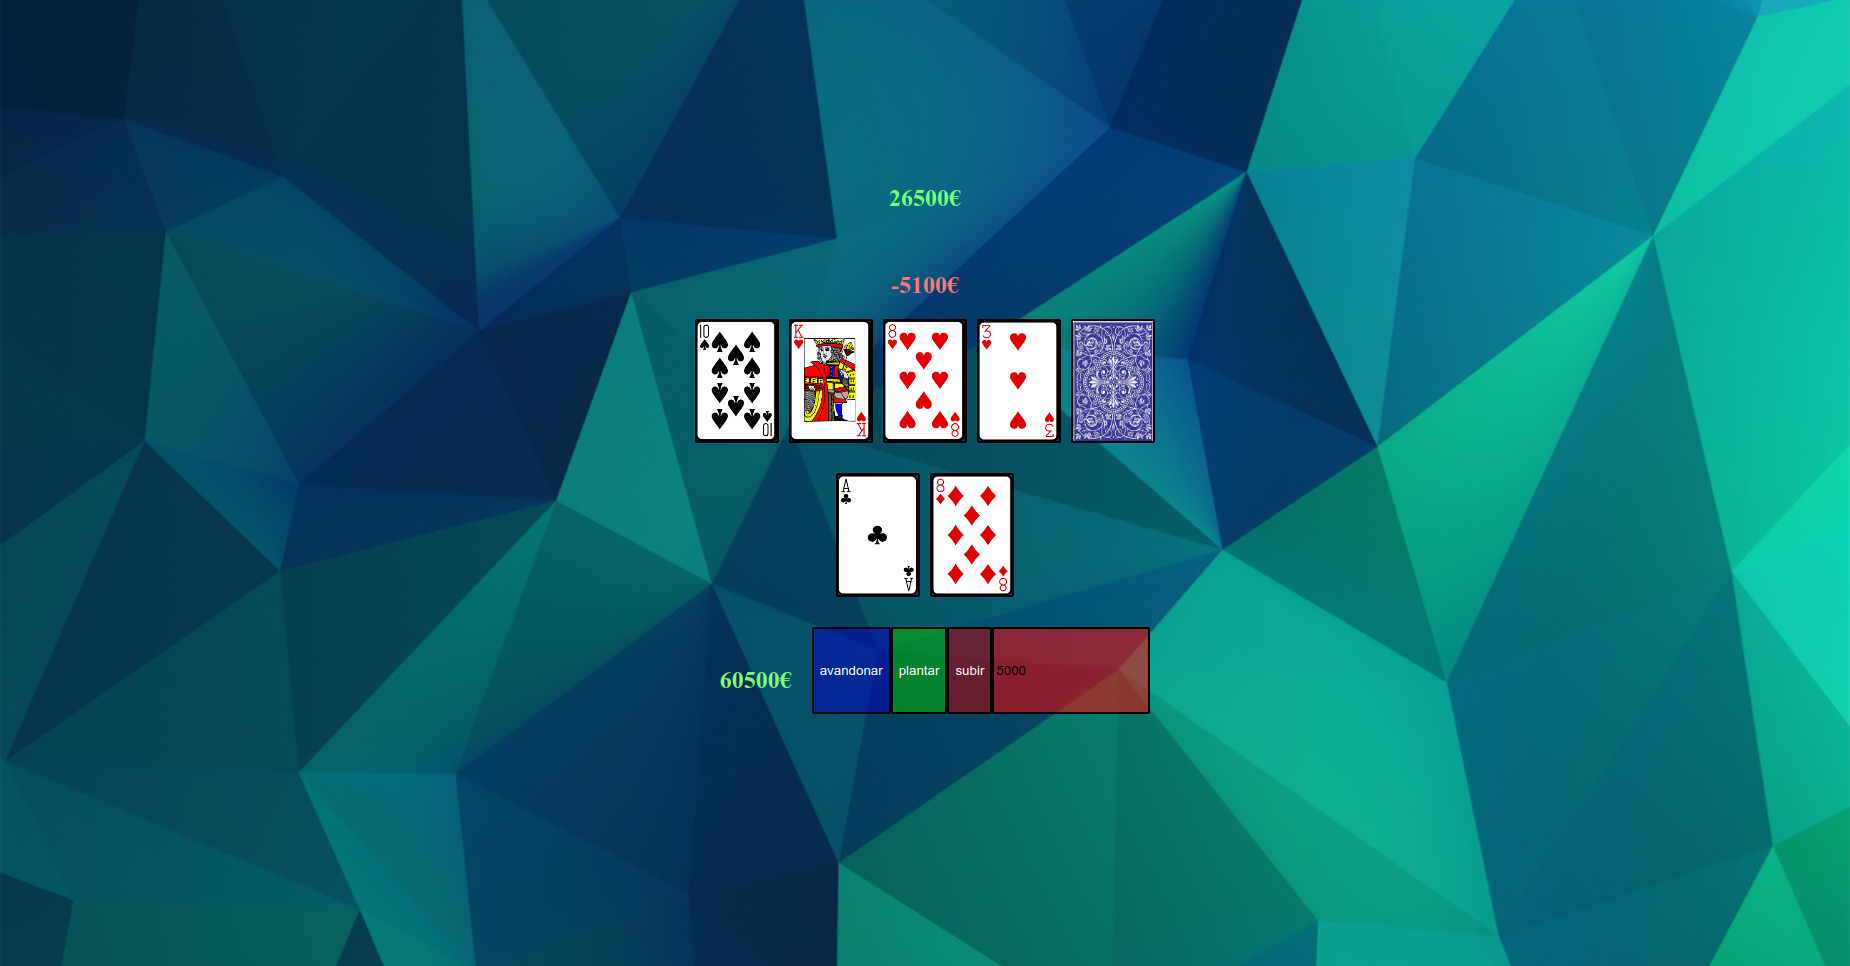
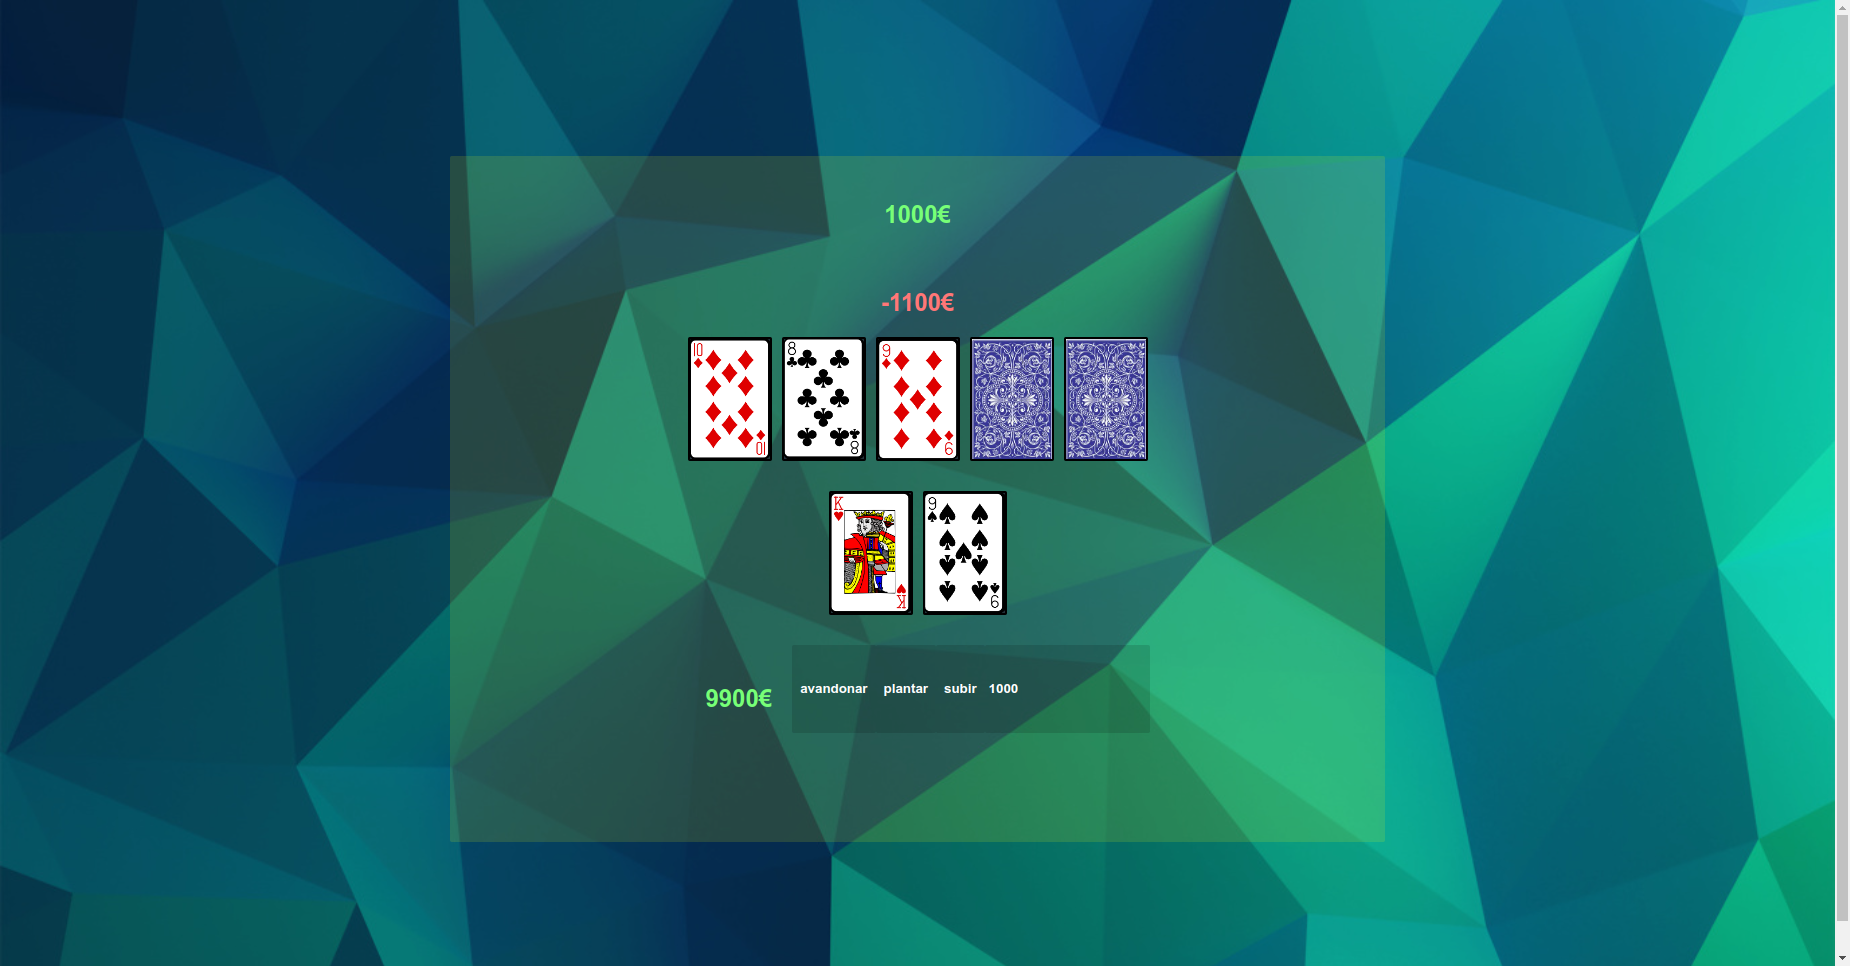
fancier

diff --git a/index.html b/index.html
@@ -24,7 +24,11 @@ body {
 }
 
 input{
-  border:2px solid #000;
+	background: #0002;
+	color: #fff;
+	font-weight: bold;
+	height: auto;
+  border:2px solid #0000;
 
   border-radius: 2px;
 }
@@ -125,10 +129,10 @@ div{
 	</div>
 	<div class="opciones">
 		<div class="money" id="dinero">10002€</div>
-		<input type="submit" value="avandonar" class="button" id="avandonar" style="background:#00b8;color:#fff;"></button>
-		<input type="submit" value="plantar" class="button" id="plantar" style="background:#0b08;color:#fff;"></button>
-		<input type="submit" value="subir" class="button" id="subir" style="background:#b008;color:#fff;"></button>
-		<input class="button" type="number" style="background:#f008;" id="subir-slider">
+		<input type="submit" value="avandonar" class="button" id="avandonar"></button>
+		<input type="submit" value="plantar" class="button" id="plantar"></button>
+		<input type="submit" value="subir" class="button" id="subir"></button>
+		<input class="button" type="number" id="subir-slider">
 	</div>
 </div>
 
